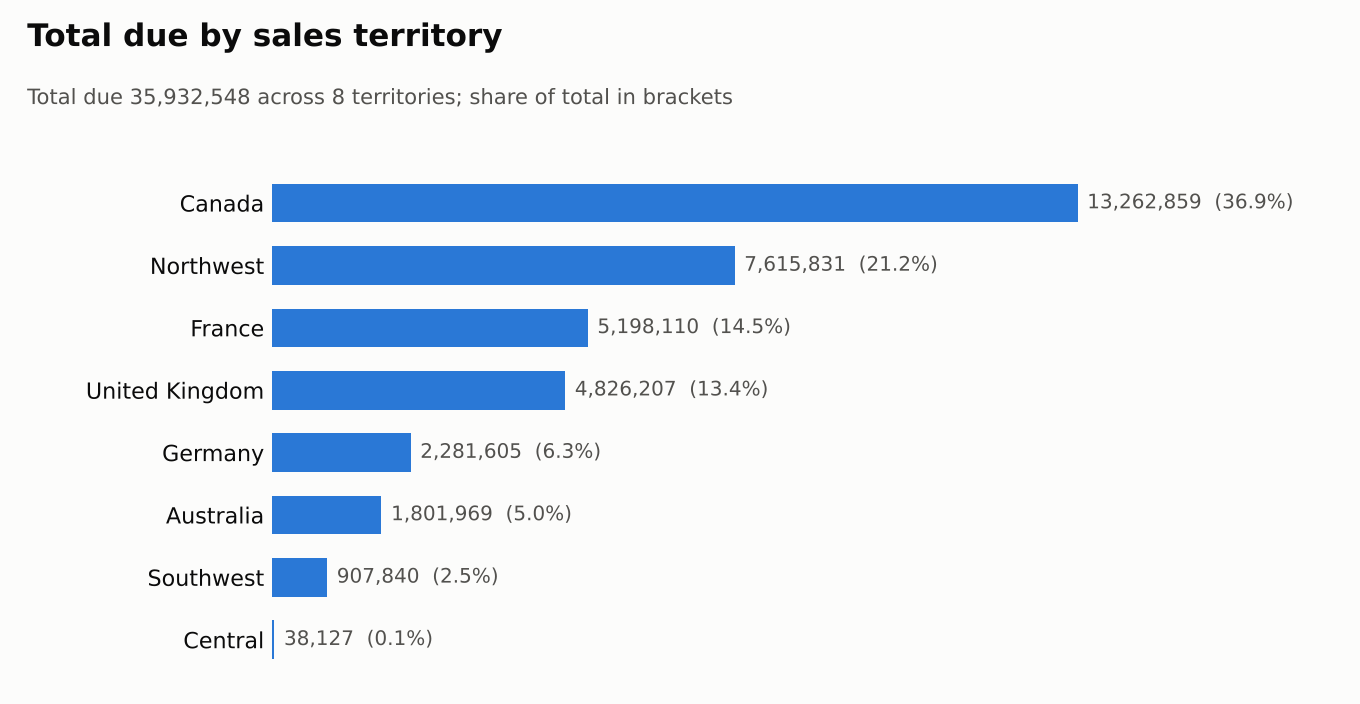
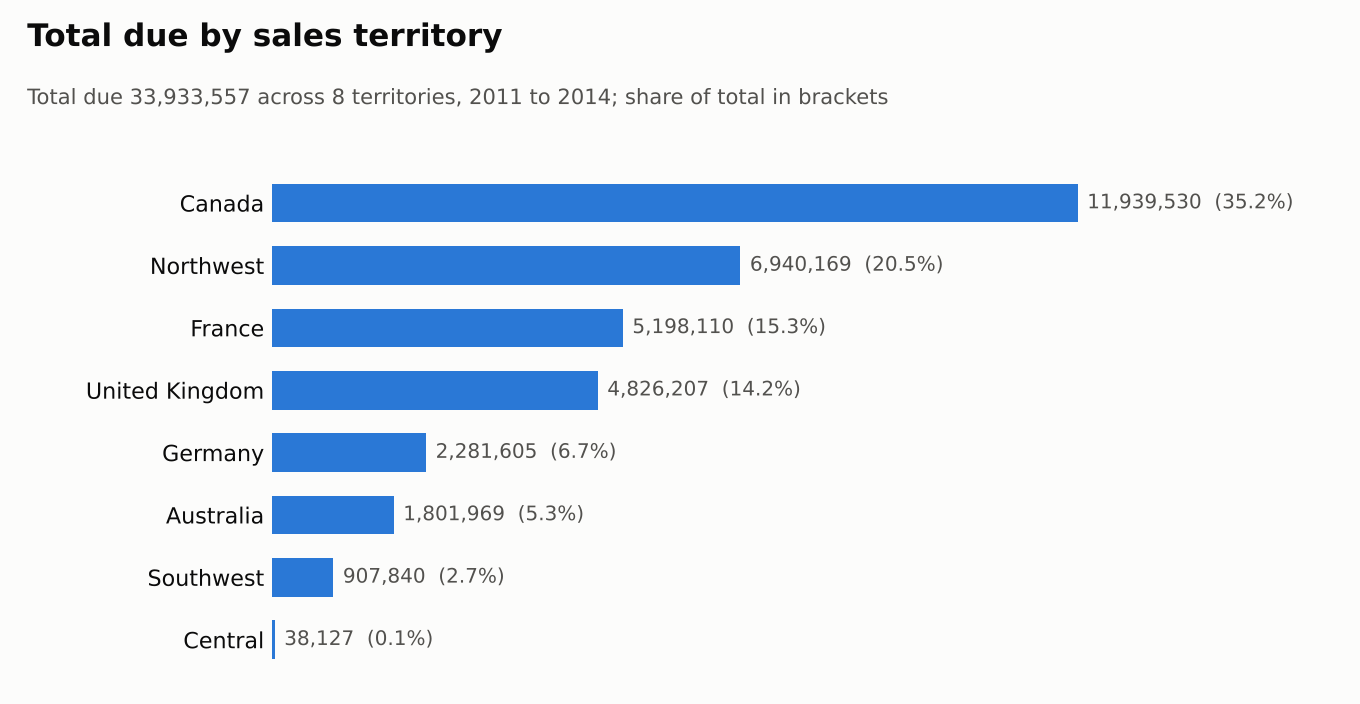
Exclude duplicated 2015 row and align totals with the Power BI dashboard
Claude-Session: https://claude.ai/code/session_016Erb14U4VQrL1MgWBwLF4Z

diff --git a/README.md b/README.md
@@ -1,6 +1,6 @@
 # Sales Analysis by Territory and Year (Excel Power Query + Power Pivot)
 
-> A Power Pivot analysis of 1,549 sales orders and 35.9M in total due across 8 sales territories. Canada and Northwest bring in 58% of the total, and 2013 was the strongest year.
+> A Power Pivot analysis of 33.9M in total due across 8 sales territories from 2011 to 2014. Canada and Northwest bring in about 56% of the total, and Canada leads in every year.
 
 ![Total due by sales territory](images/sales_by_territory.png)
 
@@ -9,15 +9,15 @@
 Where do sales come from, and how do they change over time? Specifically:
 
 - Which sales territories generate the most revenue?
-- How large is a typical order in each territory?
-- How did sales change from year to year?
+- Which territories lead each year?
+- How did total sales change from year to year?
 - How much of the total due is product value, tax and freight?
 
 ## 📁 Data
 
 - **Source:** Sales orders data from a data analysis diploma assignment
-- **Size:** 1,549 orders, 24,527 order lines, 88,358 units
 - **Territories (8):** Canada, Northwest, France, United Kingdom, Germany, Australia, Southwest, Central
+- **Years:** 2011 to 2014
 - **Measures:** # Orders, # Order Details, Qty, Subtotal, Tax Amount, Freight, TotalDue
 
 ## 🛠 Tools
@@ -32,32 +32,33 @@ Microsoft Excel: Power Query, Data Model (Power Pivot), PivotTables, slicer, Piv
    - all seven measures by sales territory
    - total due by year and territory
 4. **Added a slicer** on the measure name, so one PivotTable can switch between measures, and a **line chart** of total due by year and territory.
-5. **Checked the totals:** the territory figures add up to the grand total of 35,932,548, and Subtotal + Tax + Freight comes to within 4 of it.
+5. **Checked the totals:** the territory figures add up to the year totals (33,933,557), and they match the 33.93M in my [Power BI sales dashboard](https://github.com/maghawry17-web/PowerBI-Sales-Dashboard).
 
 ## 🔍 Key Findings
 
-- **Canada and Northwest bring in 58.1% of total due.** Canada leads with 13,262,859 (36.9%), followed by Northwest with 7,615,831 (21.2%).
-- **Four territories make up 86%.** Canada, Northwest, France (5,198,110) and the United Kingdom (4,826,207) lead. Central is almost empty, with only 3 orders and 38,127 in total due.
-- **France has the largest orders**, at an average of 27,650 per order, compared with 23,197 across all territories. Australia has the smallest (14,416 per order), so its low total comes from smaller orders as well as fewer of them.
-- **2013 was the peak year** at 16,041,760, which is 85.0% higher than 2012. 2014 fell 55.0% from 2013 to 7,221,784.
-- **Product value makes up most of the total.** Subtotal is 88.7% of total due, tax is 8.6% and freight is 2.7%, and the tax and freight shares are almost the same in every territory.
+- **Canada and Northwest bring in 55.6% of total due.** Canada leads with 11,939,530 (35.2%), followed by Northwest with 6,940,169 (20.5%).
+- **Four territories make up 85%.** Canada, Northwest, France (5,198,110) and the United Kingdom (4,826,207) lead. Central is almost empty, with 38,127 in total due (0.1%).
+- **Canada is the top territory in every year from 2011 to 2014.**
+- **More territories appear in the data over time.** Only Canada and Northwest have sales in 2011, four territories have sales in 2012, and all eight have sales from 2013.
+- **2013 was the peak year** at 16,041,760 (47.3% of the total), which is 85.0% higher than 2012. 2014 fell 55.0% from 2013 to 7,221,784.
+- **Product value makes up most of the total.** Tax is about 8.6% of total due and freight about 2.7%, so product value is roughly 89%.
 
 ![Total due by year](images/sales_by_year.png)
 
-![Average order value by territory](images/avg_order_value.png)
-
 ## ⚠ Data Notes
 
-- The 2015 row in the year PivotTable repeats the 2011 values exactly (1,323,329 in Canada and 675,662 in Northwest). 2015 is kept in the charts and totals as it appears in the workbook, but check it against the source data before relying on the 2011 and 2015 figures.
+- The PivotTables in the workbook show a 2015 row that repeats the 2011 values exactly (1,323,329 in Canada and 675,662 in Northwest), which raises the workbook's grand total to 35,932,548. This README leaves 2015 out, and the resulting 33.93M matches the Power BI dashboard.
+- The order, quantity, tax and freight totals in the workbook are affected by the same duplication, so they are not used here.
+- 2011 starts in May, so the 2012 growth compares against a partial year.
 - The 2014 total may cover only part of the year. Check the order dates before treating the 2014 drop as a real decline.
 - The workbook's currency is not stated, so values are shown as plain amounts.
 
 ## ✅ Recommendations
 
 - **Protect and grow Canada and Northwest**, since they carry more than half of the revenue.
-- **Look at why Australia and Germany have smaller orders** (product mix, pricing or discounts), and test bundles or minimum-order offers there.
-- **Learn from France, the UK and Canada**, which have the largest orders, and see whether their approach works in other territories.
-- **Fix the date issues first** (the 2015 duplicate and possible partial 2014) before using the yearly trend for forecasting.
+- **Review the smallest territories** (Southwest at 2.7% and Central at 0.1%) and decide whether to invest in them or focus elsewhere.
+- **Check why 2014 fell** (incomplete data or real demand) before using the yearly trend for planning.
+- **Fix the 2015 duplicate in the workbook** by filtering it out or correcting the date logic in the Data Model.
 
 ## 📂 Files
 
